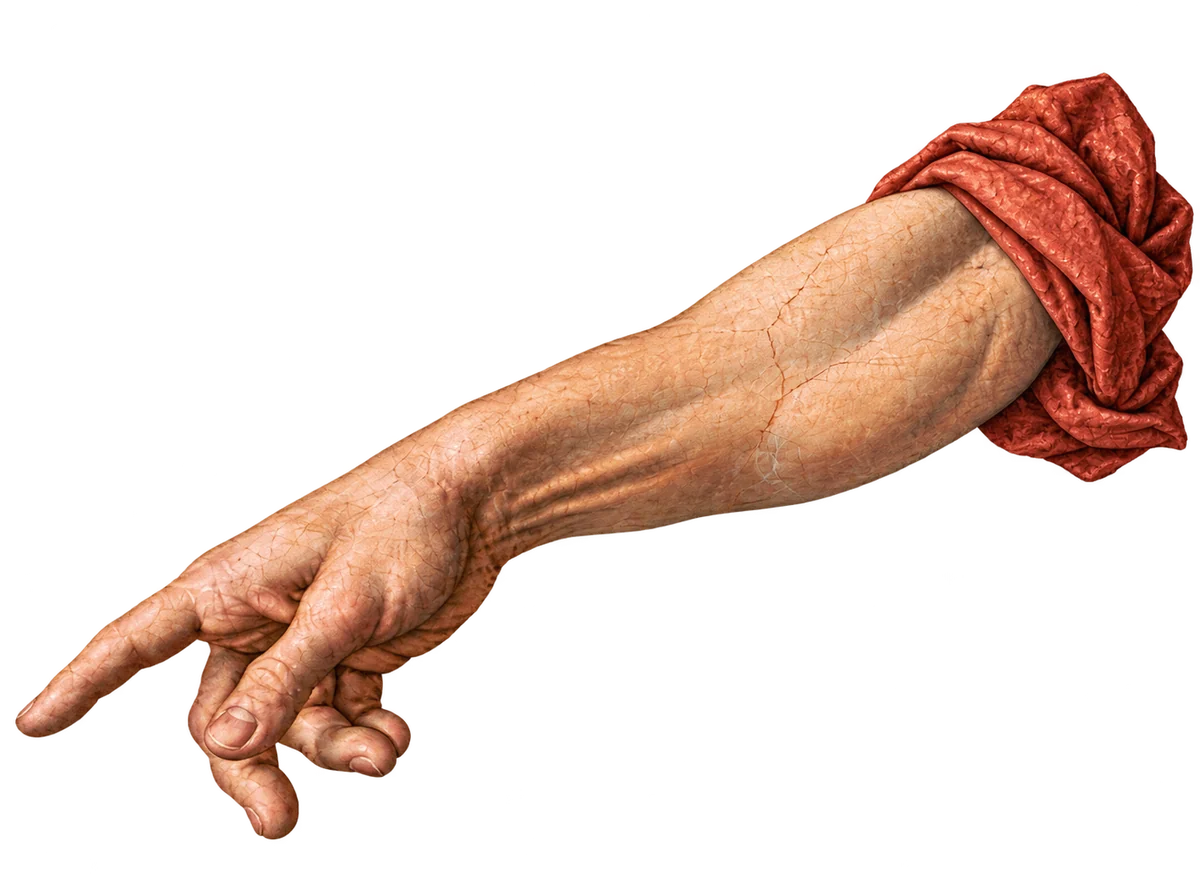
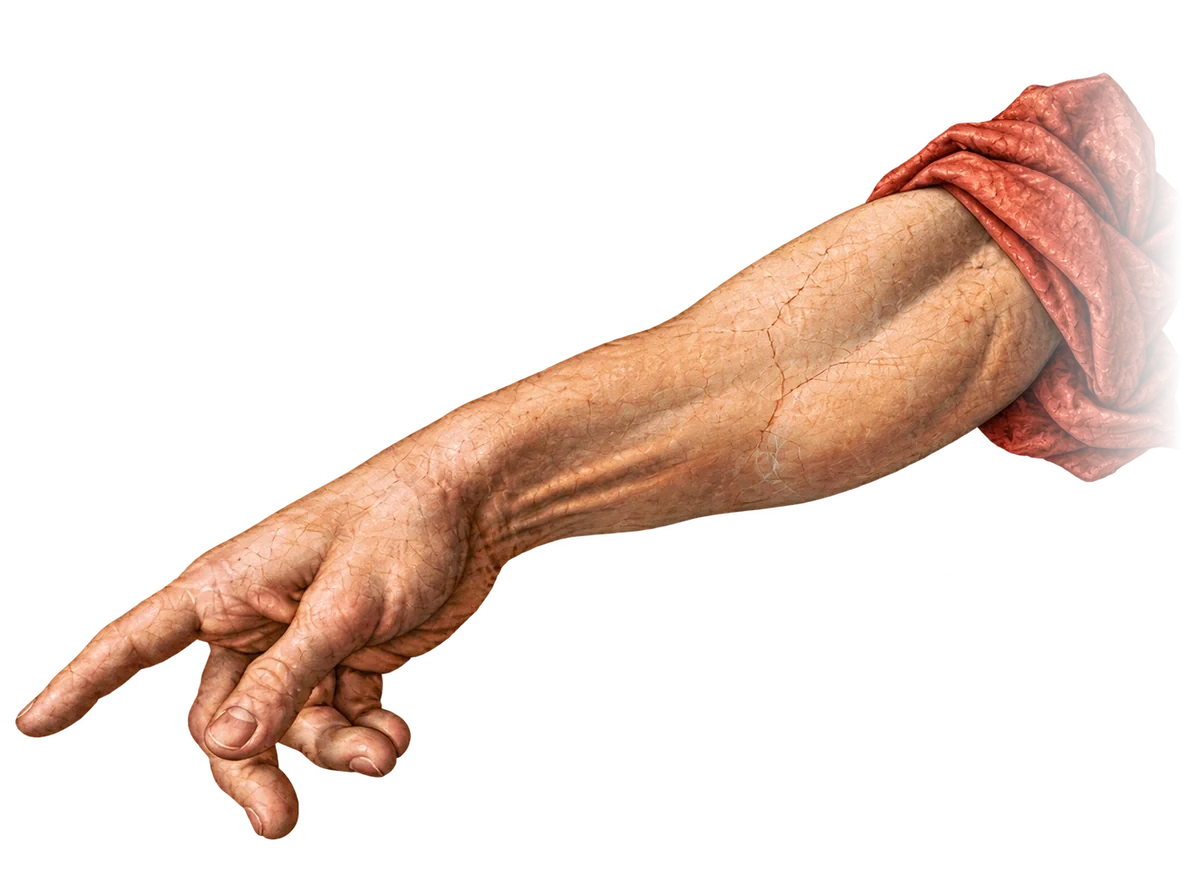
Bake the hero sleeve fade into its asset

Changed region(s): [[0.8325, 0.0618, 1.0, 0.5561]]

diff --git a/projects.html b/projects.html
@@ -2,7 +2,7 @@
 <html lang="en">
 <head>
   <meta charset="utf-8"><meta name="viewport" content="width=device-width, initial-scale=1"><meta name="description" content="Eleven systems by Sheel Shah spanning AI infrastructure, real-time robotics, edge computer vision, public safety, offline mesh networking, and product engineering."><meta name="theme-color" content="#f6f1e6">
-  <title>Projects | Sheel Shah</title><link rel="icon" href="favicon.svg?v=9f68867b" type="image/svg+xml"><link rel="canonical" href="https://sheel.dev/projects.html"><meta property="og:type" content="website"><meta property="og:site_name" content="Sheel Shah"><meta property="og:title" content="Projects — Sheel Shah"><meta property="og:description" content="Eleven systems by Sheel Shah spanning AI infrastructure, real-time robotics, edge computer vision, public safety, offline mesh networking, and product engineering."><meta property="og:url" content="https://sheel.dev/projects.html"><meta property="og:image" content="https://sheel.dev/assets/og/og.png"><meta property="og:image:width" content="1200"><meta property="og:image:height" content="630"><meta property="og:image:alt" content="A cream card reading “hi, sheel here” beside a Renaissance fresco hand reaching toward a pixel-art cursor"><meta name="twitter:card" content="summary_large_image"><link rel="preconnect" href="https://fonts.googleapis.com"><link rel="preconnect" href="https://fonts.gstatic.com" crossorigin><link rel="stylesheet" href="https://fonts.googleapis.com/css2?family=Bricolage+Grotesque:opsz,wght@12..96,200..800&amp;family=DM+Mono:wght@400;500&amp;family=Silkscreen:wght@700&amp;display=swap"><link rel="stylesheet" href="styles.css?v=7bd3cbfc"><script defer src="site.js?v=444520b8"></script>
+  <title>Projects | Sheel Shah</title><link rel="icon" href="favicon.svg?v=9f68867b" type="image/svg+xml"><link rel="canonical" href="https://sheel.dev/projects.html"><meta property="og:type" content="website"><meta property="og:site_name" content="Sheel Shah"><meta property="og:title" content="Projects — Sheel Shah"><meta property="og:description" content="Eleven systems by Sheel Shah spanning AI infrastructure, real-time robotics, edge computer vision, public safety, offline mesh networking, and product engineering."><meta property="og:url" content="https://sheel.dev/projects.html"><meta property="og:image" content="https://sheel.dev/assets/og/og.png"><meta property="og:image:width" content="1200"><meta property="og:image:height" content="630"><meta property="og:image:alt" content="A cream card reading “hi, sheel here” beside a Renaissance fresco hand reaching toward a pixel-art cursor"><meta name="twitter:card" content="summary_large_image"><link rel="preconnect" href="https://fonts.googleapis.com"><link rel="preconnect" href="https://fonts.gstatic.com" crossorigin><link rel="stylesheet" href="https://fonts.googleapis.com/css2?family=Bricolage+Grotesque:opsz,wght@12..96,200..800&amp;family=DM+Mono:wght@400;500&amp;family=Silkscreen:wght@700&amp;display=swap"><link rel="stylesheet" href="styles.css?v=0386207a"><script defer src="site.js?v=444520b8"></script>
 </head>
 <body>
   <a class="skip-link" href="#main">Skip to content</a>

diff --git a/experience.html b/experience.html
@@ -2,7 +2,7 @@
 <html lang="en">
 <head>
   <meta charset="utf-8"><meta name="viewport" content="width=device-width, initial-scale=1"><meta name="description" content="Sheel Shah’s experience: a five-person research cohort, 90+ students in office hours, a $1.4M student budget, and a temple renovation campaign."><meta name="theme-color" content="#f6f1e6">
-  <title>Experience | Sheel Shah</title><link rel="icon" href="favicon.svg?v=9f68867b" type="image/svg+xml"><link rel="canonical" href="https://sheel.dev/experience.html"><meta property="og:type" content="website"><meta property="og:site_name" content="Sheel Shah"><meta property="og:title" content="Experience — Sheel Shah"><meta property="og:description" content="Sheel Shah’s experience: a five-person research cohort, 90+ students in office hours, a $1.4M student budget, and a temple renovation campaign."><meta property="og:url" content="https://sheel.dev/experience.html"><meta property="og:image" content="https://sheel.dev/assets/og/og.png"><meta property="og:image:width" content="1200"><meta property="og:image:height" content="630"><meta property="og:image:alt" content="A cream card reading “hi, sheel here” beside a Renaissance fresco hand reaching toward a pixel-art cursor"><meta name="twitter:card" content="summary_large_image"><link rel="preconnect" href="https://fonts.googleapis.com"><link rel="preconnect" href="https://fonts.gstatic.com" crossorigin><link rel="stylesheet" href="https://fonts.googleapis.com/css2?family=Bricolage+Grotesque:opsz,wght@12..96,200..800&amp;family=DM+Mono:wght@400;500&amp;family=Silkscreen:wght@700&amp;display=swap"><link rel="stylesheet" href="styles.css?v=7bd3cbfc"><script defer src="site.js?v=444520b8"></script>
+  <title>Experience | Sheel Shah</title><link rel="icon" href="favicon.svg?v=9f68867b" type="image/svg+xml"><link rel="canonical" href="https://sheel.dev/experience.html"><meta property="og:type" content="website"><meta property="og:site_name" content="Sheel Shah"><meta property="og:title" content="Experience — Sheel Shah"><meta property="og:description" content="Sheel Shah’s experience: a five-person research cohort, 90+ students in office hours, a $1.4M student budget, and a temple renovation campaign."><meta property="og:url" content="https://sheel.dev/experience.html"><meta property="og:image" content="https://sheel.dev/assets/og/og.png"><meta property="og:image:width" content="1200"><meta property="og:image:height" content="630"><meta property="og:image:alt" content="A cream card reading “hi, sheel here” beside a Renaissance fresco hand reaching toward a pixel-art cursor"><meta name="twitter:card" content="summary_large_image"><link rel="preconnect" href="https://fonts.googleapis.com"><link rel="preconnect" href="https://fonts.gstatic.com" crossorigin><link rel="stylesheet" href="https://fonts.googleapis.com/css2?family=Bricolage+Grotesque:opsz,wght@12..96,200..800&amp;family=DM+Mono:wght@400;500&amp;family=Silkscreen:wght@700&amp;display=swap"><link rel="stylesheet" href="styles.css?v=0386207a"><script defer src="site.js?v=444520b8"></script>
 </head>
 <body>
   <a class="skip-link" href="#main">Skip to content</a>

diff --git a/index.html b/index.html
@@ -8,7 +8,7 @@
   <title>Sheel Shah | Software Engineer</title>
   <link rel="icon" href="favicon.svg?v=9f68867b" type="image/svg+xml">
   <link rel="canonical" href="https://sheel.dev/"><meta property="og:type" content="website"><meta property="og:site_name" content="Sheel Shah"><meta property="og:title" content="Sheel Shah — Software Engineer"><meta property="og:description" content="Sheel Shah — computer science at UC San Diego, focused on applied AI: software systems that use AI and ML to solve problems people actually have."><meta property="og:url" content="https://sheel.dev/"><meta property="og:image" content="https://sheel.dev/assets/og/og.png"><meta property="og:image:width" content="1200"><meta property="og:image:height" content="630"><meta property="og:image:alt" content="A cream card reading “hi, sheel here” beside a Renaissance fresco hand reaching toward a pixel-art cursor"><meta name="twitter:card" content="summary_large_image"><link rel="preconnect" href="https://fonts.googleapis.com"><link rel="preconnect" href="https://fonts.gstatic.com" crossorigin><link rel="stylesheet" href="https://fonts.googleapis.com/css2?family=Bricolage+Grotesque:opsz,wght@12..96,200..800&amp;family=DM+Mono:wght@400;500&amp;family=Silkscreen:wght@700&amp;display=swap"><link rel="stylesheet" href="assets/tech/tech.css?v=f1bf6020">
-  <link rel="stylesheet" href="styles.css?v=7bd3cbfc">
+  <link rel="stylesheet" href="styles.css?v=0386207a">
   <script defer src="site.js?v=444520b8"></script>
   <script type="application/ld+json">{"@context":"https://schema.org","@type":"Person","name":"Sheel Shah","url":"https://sheel.dev/","image":"https://sheel.dev/assets/og/og.png","jobTitle":"Software Engineer","email":"mailto:shs143@ucsd.edu","affiliation":{"@type":"CollegeOrUniversity","name":"UC San Diego"},"sameAs":["https://github.com/shahxsheel","https://www.linkedin.com/in/shahxsheel"]}</script>
 </head>
@@ -37,7 +37,7 @@
         </div>
         <div class="computer-wrap">
           <div class="hero-art" data-hero-art role="img" aria-label="A Renaissance fresco hand and a pixel-art cursor reaching toward each other across a small gap of green and gold pixels">
-            <img class="hero-layer hero-arm" src="assets/hero/arm.webp" width="1200" height="874" alt="" aria-hidden="true" fetchpriority="high" decoding="sync">
+            <img class="hero-layer hero-arm" src="assets/hero/arm.webp?v=626cd378" width="1200" height="874" alt="" aria-hidden="true" fetchpriority="high" decoding="sync">
             <img class="hero-layer hero-cursor" src="assets/hero/cursor.svg" width="17" height="24" alt="" aria-hidden="true" decoding="async">
             <svg class="hero-layer hero-spark" viewBox="0 0 48 40" aria-hidden="true" focusable="false">
               <rect class="spark" style="--d:0ms"   x="2"  y="30" width="4" height="4" fill="#dca23d"/>

diff --git a/404.html b/404.html
@@ -1,5 +1,5 @@
 <!doctype html>
 <html lang="en">
-<head><meta charset="utf-8"><meta name="viewport" content="width=device-width, initial-scale=1"><meta name="robots" content="noindex"><meta name="description" content="That page isn’t here. Head back to the homepage or browse the projects."><meta name="theme-color" content="#f6f1e6"><title>404 | Sheel Shah</title><link rel="icon" href="/favicon.svg?v=9f68867b" type="image/svg+xml"><link rel="preconnect" href="https://fonts.googleapis.com"><link rel="preconnect" href="https://fonts.gstatic.com" crossorigin><link rel="stylesheet" href="https://fonts.googleapis.com/css2?family=Bricolage+Grotesque:opsz,wght@12..96,200..800&amp;family=DM+Mono:wght@400;500&amp;family=Silkscreen:wght@700&amp;display=swap"><link rel="stylesheet" href="/styles.css?v=7bd3cbfc"></head>
+<head><meta charset="utf-8"><meta name="viewport" content="width=device-width, initial-scale=1"><meta name="robots" content="noindex"><meta name="description" content="That page isn’t here. Head back to the homepage or browse the projects."><meta name="theme-color" content="#f6f1e6"><title>404 | Sheel Shah</title><link rel="icon" href="/favicon.svg?v=9f68867b" type="image/svg+xml"><link rel="preconnect" href="https://fonts.googleapis.com"><link rel="preconnect" href="https://fonts.gstatic.com" crossorigin><link rel="stylesheet" href="https://fonts.googleapis.com/css2?family=Bricolage+Grotesque:opsz,wght@12..96,200..800&amp;family=DM+Mono:wght@400;500&amp;family=Silkscreen:wght@700&amp;display=swap"><link rel="stylesheet" href="/styles.css?v=0386207a"></head>
 <body><main class="not-found"><div class="not-found-inner"><div class="not-found-code">404</div><h1>This route was never merged.</h1><p>Probably a stale branch. The useful parts are still online.</p><div class="button-row"><a class="button primary" href="/">← Take me home</a><a class="button" href="/projects.html">See the work ↗</a></div><div class="social-links not-found-links"><a href="https://drive.google.com/file/d/1XOWkwlHtZuW1af7tEsaFfw5dud0yvwfT/view" target="_blank" rel="noreferrer">Resume</a><a href="https://github.com/shahxsheel" target="_blank" rel="noreferrer">GitHub ↗</a><a href="https://linkedin.com/in/shahxsheel" target="_blank" rel="noreferrer">LinkedIn ↗</a><a href="mailto:shs143@ucsd.edu">Email ↗</a></div><img class="bit-cameo bit-not-found" src="/assets/bit/bit-wave.svg" alt="" aria-hidden="true"></div></main></body>
 </html>

diff --git a/styles.css b/styles.css
@@ -176,7 +176,7 @@ p { text-wrap: pretty; }
 
 .hero-art { --pull-x: 0px; --pull-y: 0px; position: relative; width: min(880px, 60vw, 74vh); aspect-ratio: 1.12 / 1; }
 .hero-layer { position: absolute; height: auto; pointer-events: none; user-select: none; -webkit-user-drag: none; }
-.hero-arm { right: -10%; top: 2%; width: 84%; -webkit-mask-image: linear-gradient(to right, #000 84%, transparent 98.5%); mask-image: linear-gradient(to right, #000 84%, transparent 98.5%); transform: translate3d(calc(var(--pull-x) * -0.3), calc(var(--pull-y) * -0.3), 0); filter: drop-shadow(0 22px 34px rgba(var(--shadow-color), .13)); animation: heroArmFloat 11s ease-in-out infinite; }
+.hero-arm { right: -10%; top: 2%; width: 84%; transform: translate3d(calc(var(--pull-x) * -0.3), calc(var(--pull-y) * -0.3), 0); filter: drop-shadow(0 22px 34px rgba(var(--shadow-color), .13)); animation: heroArmFloat 11s ease-in-out infinite; }
 .hero-cursor { left: 5%; bottom: 5%; width: 13.5%; transform-origin: 35.3% 4.2%; transform: translate3d(var(--pull-x), var(--pull-y), 0) rotate(51deg); filter: drop-shadow(0 14px 20px rgba(var(--shadow-color), .16)); animation: heroCursorFloat 7.5s ease-in-out infinite; }
 .hero-spark { left: 11.5%; top: 59%; width: 20.5%; overflow: visible; transform: translate3d(calc(var(--pull-x) * 0.5), calc(var(--pull-y) * 0.5), 0); animation: heroSparkFloat 5.5s ease-in-out infinite; }
 .hero-spark .spark { animation: sparkTwinkle 2.6s ease-in-out infinite; animation-delay: var(--d); transform-box: fill-box; transform-origin: center; }

diff --git a/tools/bump_assets.py b/tools/bump_assets.py
@@ -12,7 +12,13 @@ import re
 import sys
 
 ROOT = pathlib.Path(__file__).resolve().parent.parent
-ASSETS = ["styles.css", "site.js", "assets/tech/tech.css", "favicon.svg"]
+ASSETS = [
+    "styles.css",
+    "site.js",
+    "assets/tech/tech.css",
+    "assets/hero/arm.webp",
+    "favicon.svg",
+]
 
 
 def digest(path):
